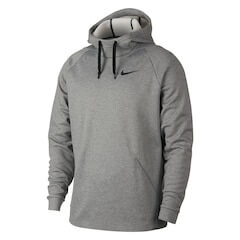
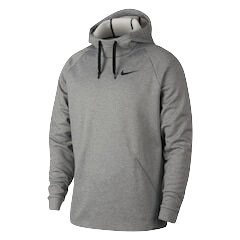
Fixed Link and Images
* Removed white background from clothing images
* Fixed a `main-screen.html` link that was somehow broken for a week

diff --git a/main-screen.html b/main-screen.html
@@ -52,8 +52,6 @@
   <![endif]-->
 
   <!-- Add your site or application content here -->
-
-    </br></br>
     
   <!--Sidenav-->
   <div id="mySidenav" class="sidenav">
@@ -97,7 +95,7 @@
 
       </br></br>
       
-      <a class="btn btn-primary btn-lg" href="shop.html">
+      <a class="btn btn-primary btn-lg" href="friends.html">
         Friends
       </a>
 
